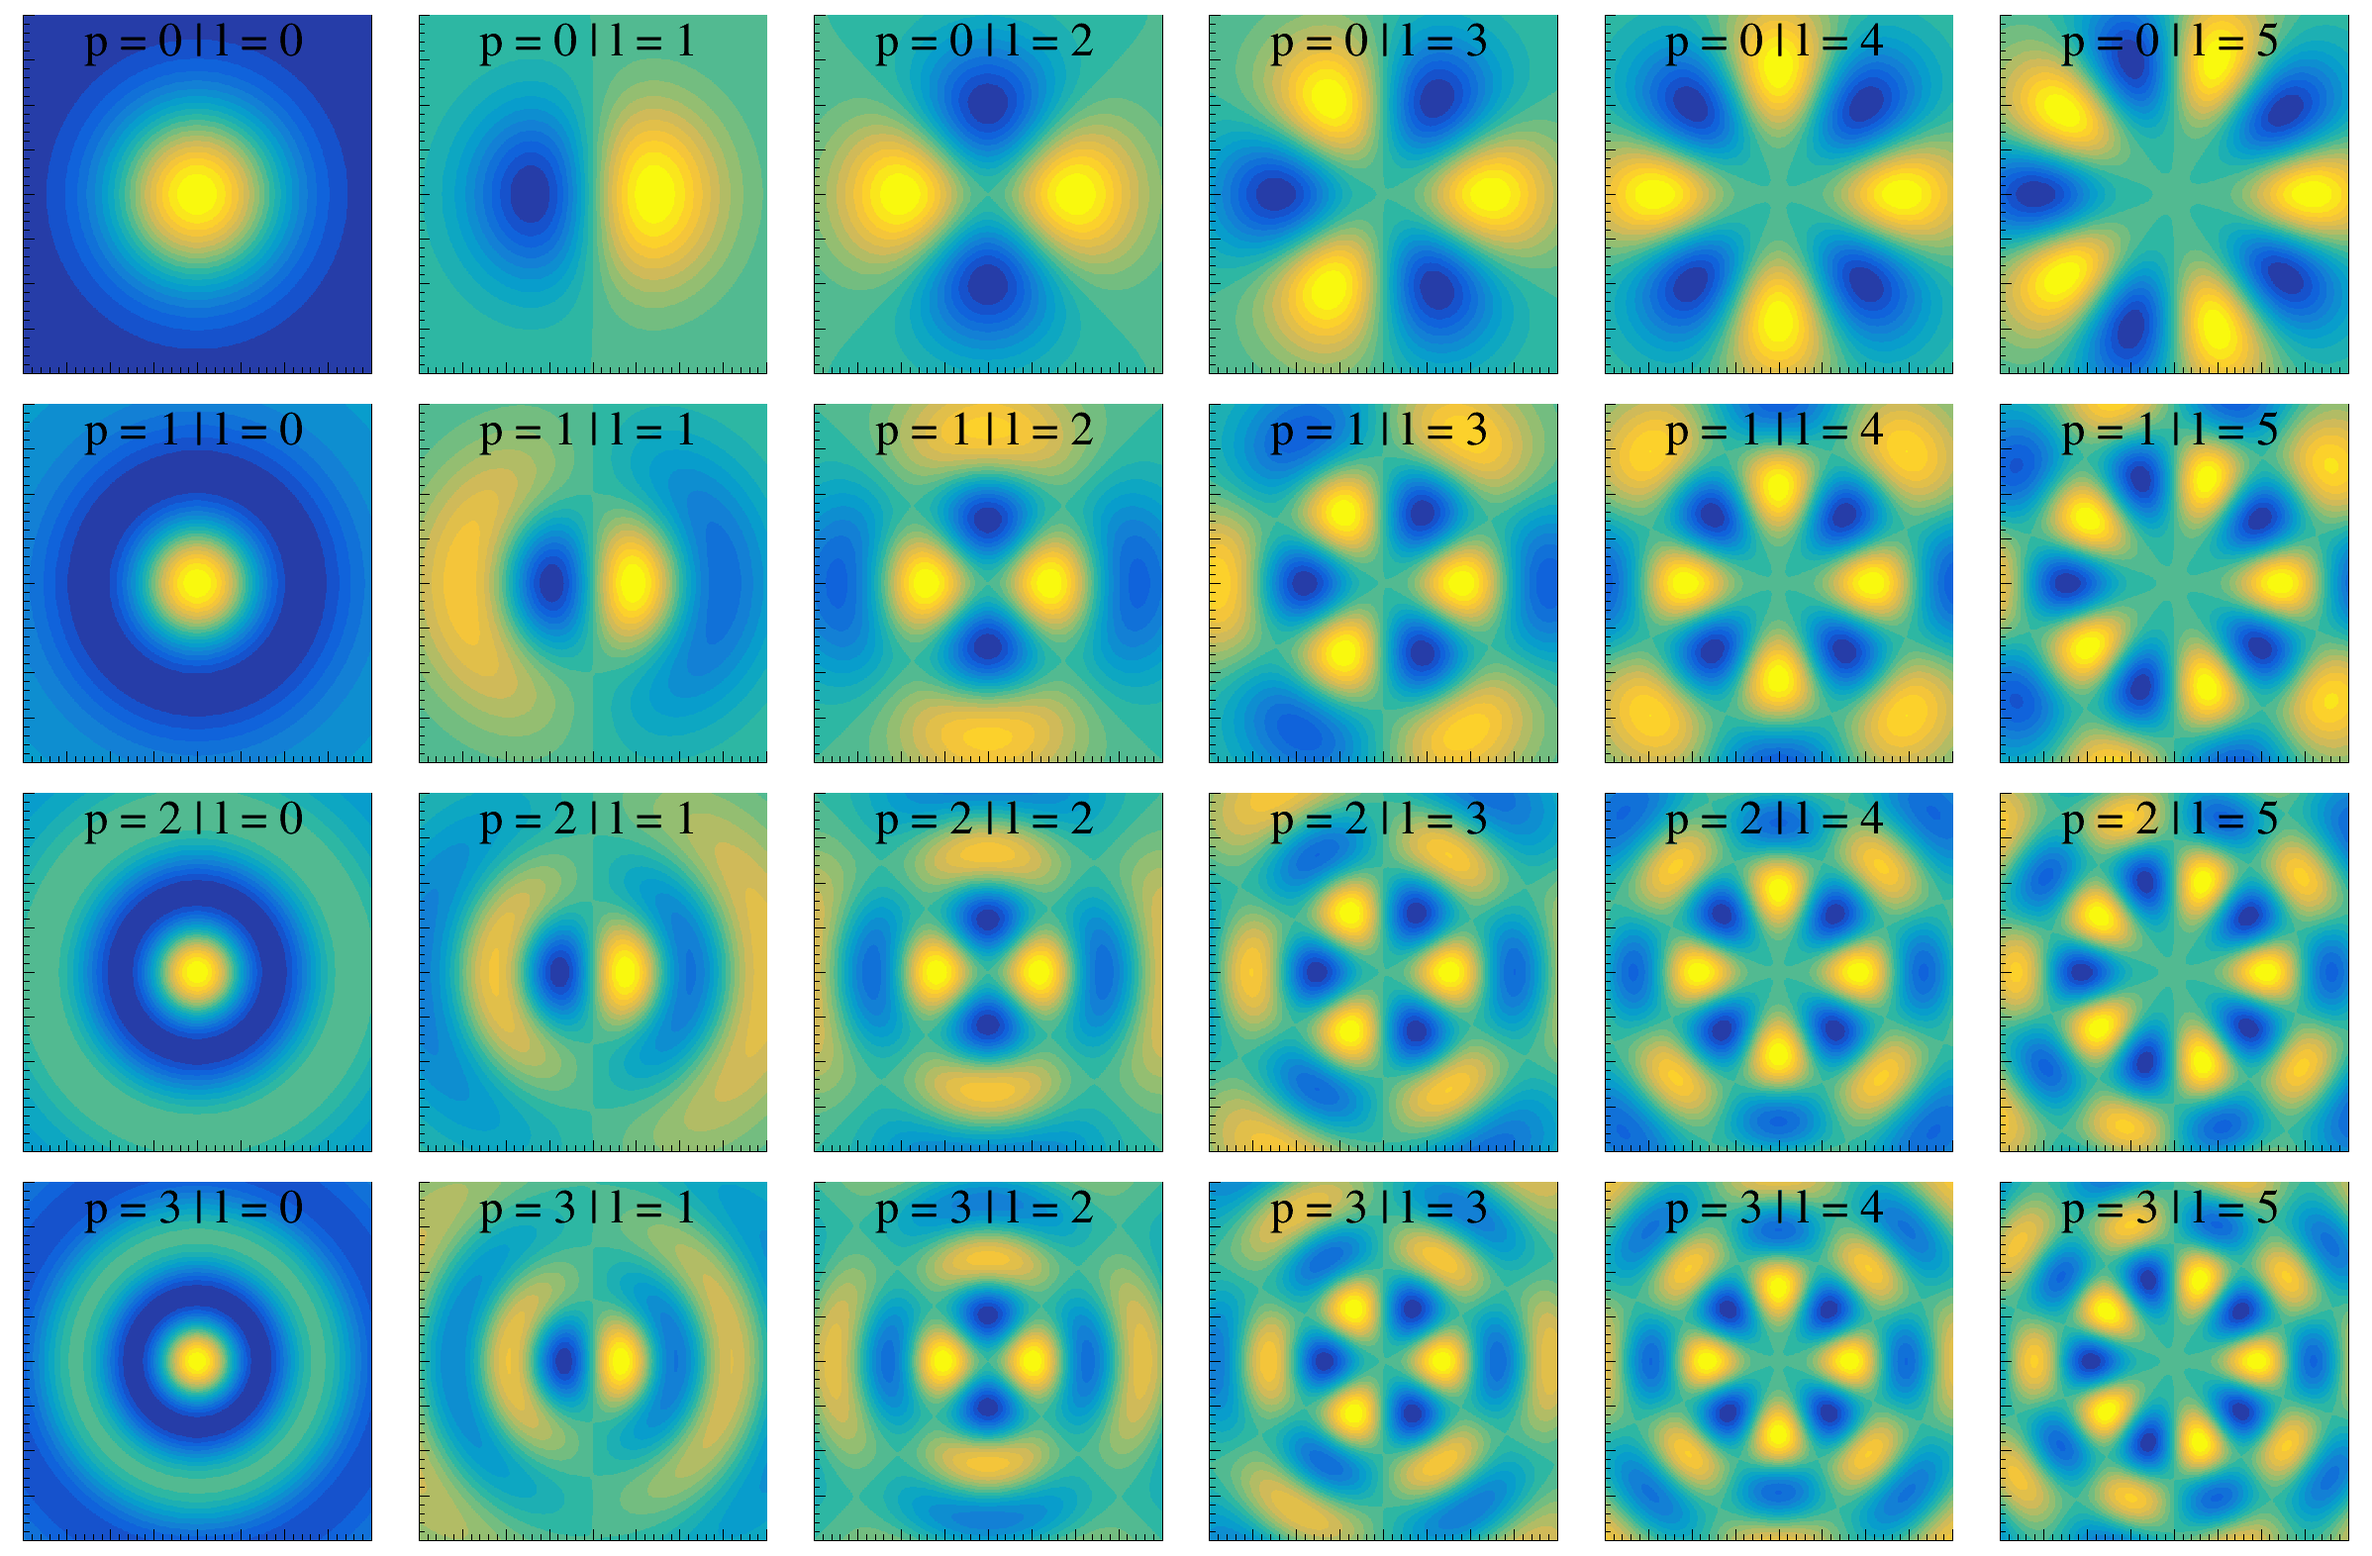
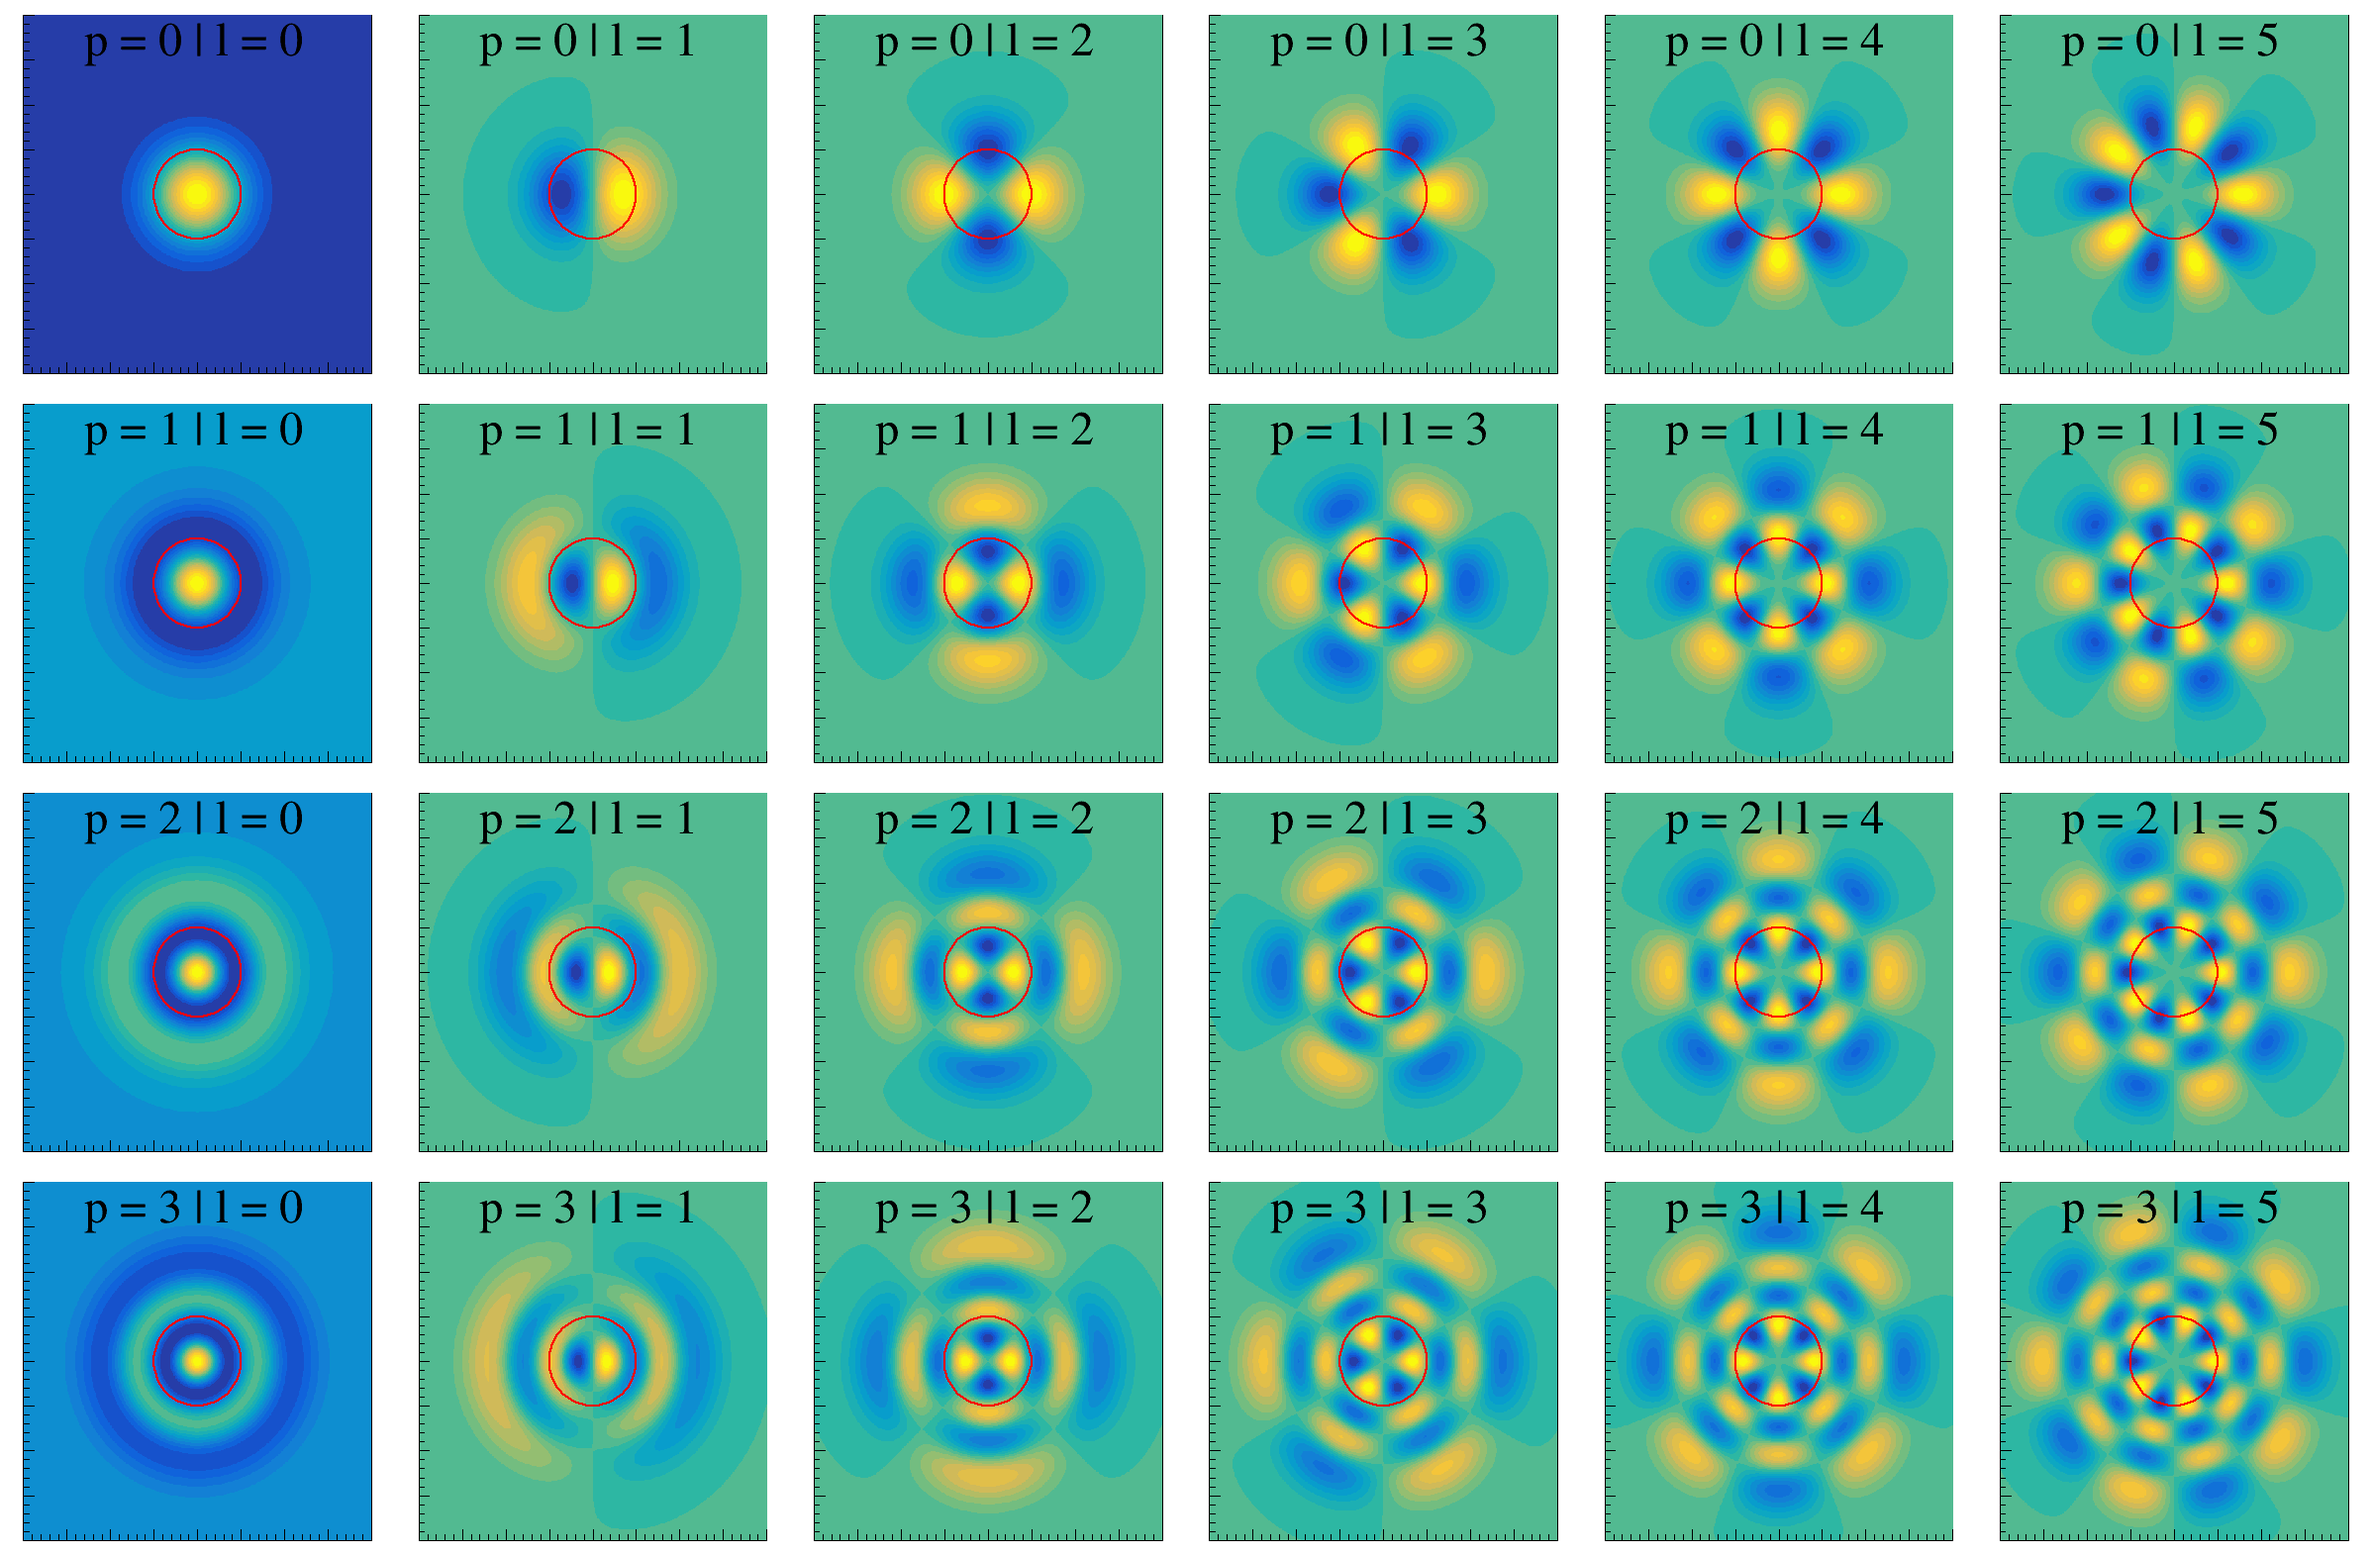
meme

diff --git a/rafael/Laguerre Gaussian Wave Modes/laguerre_gaussian_wave_modes.cpp b/rafael/Laguerre Gaussian Wave Modes/laguerre_gaussian_wave_modes.cpp
@@ -2,10 +2,12 @@
 
 #include <math.h>
 #include <iostream>
+
 #include "TF2.h"
 #include "TCanvas.h"
 #include "TStyle.h"
 #include "TLatex.h"
+#include "TEllipse.h"
 
 using namespace std;
 
@@ -14,7 +16,7 @@ double n = 1;
 double w = 1;
 
 double lambda = 1;
-double w0 = 10;
+double w0 = 5;
 
 double laguerre_mode(double* coord, double* par){
 	double y = coord[0];
@@ -35,13 +37,26 @@ double laguerre_mode(double* coord, double* par){
  	double psi = atan(x/zr);
  
 	// RETURNS
-	double auxcos = cos(w*t - kg*x - kg*r*r*R_1/2 - l*phi + (2*p+abs(l)+1)*psi);
-	double auxgauss = Eo * w0/wz * exp(-r*r/(wz*wz));
-	double auxlag1 = pow(sqrt(2)*r/wz, abs(l));
-	double auxlag2 = assoc_laguerre(p, abs(l), 2*r*r/(wz*wz));
+	double res = cos(w*t - kg*x - kg*r*r*R_1/2 - l*phi + (2*p+abs(l)+1)*psi);
+	res *= Eo * w0/wz * exp(-r*r/(wz*wz));
+	res *= pow(sqrt(2)*r/wz, abs(l));
+	res *= assoc_laguerre(p, abs(l), 2*r*r/(wz*wz));
 
-	return auxgauss * auxlag1 * auxlag2 * auxcos;
+	return res;
 }
+
+
+double magnetic_field_rafa(double* coord, double* par){
+
+	double h = 0.00001;
+
+	double par1[4] = {par[0]  , par[1]+M_PI/2/w, par[2], par[3]};
+	double par2[4] = {par[0]+h, par[1]+M_PI/2/w, par[2], par[3]};
+
+	return (laguerre_mode(coord, par2) - laguerre_mode(coord, par1)) / h;
+
+}
+
 
 int main(){
 	/*
@@ -64,6 +79,7 @@ int main(){
 	c1->SaveAs("LaguerreGaussianWaveModes.png");
 	*/
 
+
 	int n_l = 6;
 	int n_p = 4;
 	int side = 400;
@@ -79,11 +95,13 @@ int main(){
 
 	TF2*** fun = new TF2**[n_p];
 	TLatex*** text = new TLatex**[n_p];
+	TEllipse*** ellipse = new TEllipse**[n_p];
 	for(int p = 0; p < n_p; p++){
 		fun[p] = new TF2*[n_l];
 		text[p] = new TLatex*[n_l];
+		ellipse[p] = new TEllipse*[n_l];
 		for(int l = 0; l < n_l; l++){
-			fun[p][l] = new TF2(("f_"+to_string(p)+"_"+to_string(l)).c_str(), laguerre_mode, -20, 20, -20, 20, 4); 
+			fun[p][l] = new TF2(("f_"+to_string(p)+"_"+to_string(l)).c_str(), magnetic_field_rafa, -20, 20, -20, 20, 4); 
 			fun[p][l]->SetTitle(";;;");
 			fun[p][l]->SetNpx(500);
 			fun[p][l]->SetNpy(500);
@@ -92,6 +110,11 @@ int main(){
 			fun[p][l]->SetParameter(1, 0); // SET TIME
 			fun[p][l]->SetParameter(2, p); // SET "p" VARIABLE
 			fun[p][l]->SetParameter(3, l); // SET "l" VARIABLE
+
+			double range = fun[p][l]->GetMaximum();
+
+			//fun[p][l]->SetMaximum(range);
+			//fun[p][l]->SetMinimum(-range);	
 
 			c1->cd(1+l+p*n_l);
 
@@ -105,10 +128,18 @@ int main(){
 			text[p][l] = new TLatex(-13, 15.5, ("#font[132]{p = "+to_string(p)+" | l = "+to_string(l)+"}").c_str());
 			text[p][l]->SetTextSize(0.15);
 			text[p][l]->Draw("SAME");
+
+			ellipse[p][l] = new TEllipse(0, 0, w0);
+			ellipse[p][l]->SetFillStyle(0);
+			ellipse[p][l]->SetLineColor(2);
+			ellipse[p][l]->SetLineWidth(2);
+			ellipse[p][l]->Draw();
 		}
 	}
 
 	c1->SaveAs("LaguerreGaussianWaveModes.png");
+
+
 
 	return 0;
 
